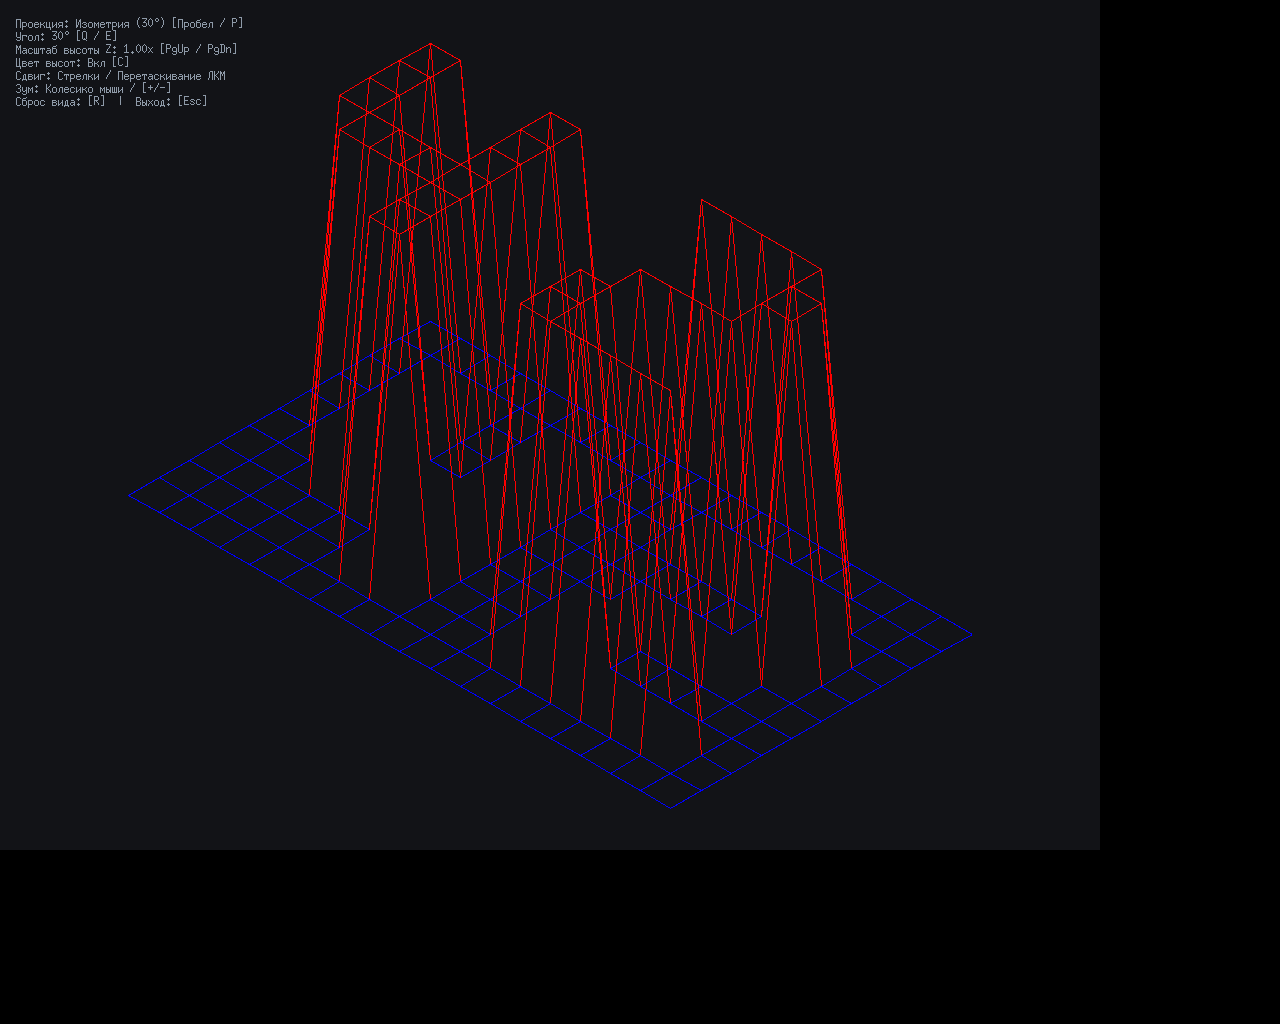
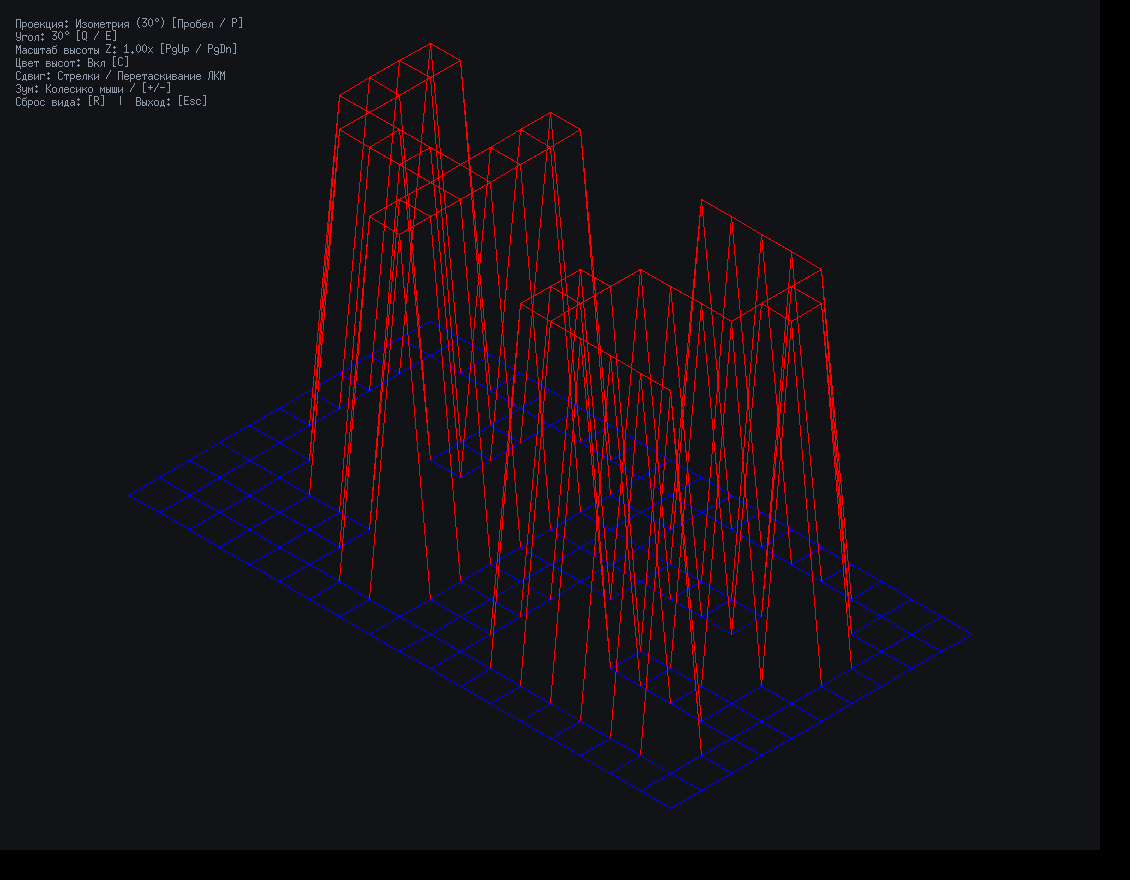
Добавить uv.lock

Changed region(s): [[0.1239, 0.0307, 0.7743, 0.7977], [0.0, 0.0, 0.1858, 0.1227]]

diff --git a/README.md b/README.md
@@ -1,6 +1,6 @@
 # FdF — каркасная 3D-модель карты высот
 
-![CI](https://github.com/egormswertik/fdf-python/actions/workflows/ci.yml/badge.svg)
+![CI](https://github.com/Poo09090/fdf-python/actions/workflows/ci.yml/badge.svg)
 
 ![скриншот](docs/screenshot.png)
 
@@ -24,7 +24,7 @@
 Для быстрой установки инструментов разработки можно использовать менеджер пакетов `uv` или обычный `pip`:
 
 ```bash
-git clone https://github.com/egormswertik/fdf-python.git
+git clone https://github.com/Poo09090/fdf-python.git
 cd fdf-python
 pip install pytest mypy ruff
 ```
